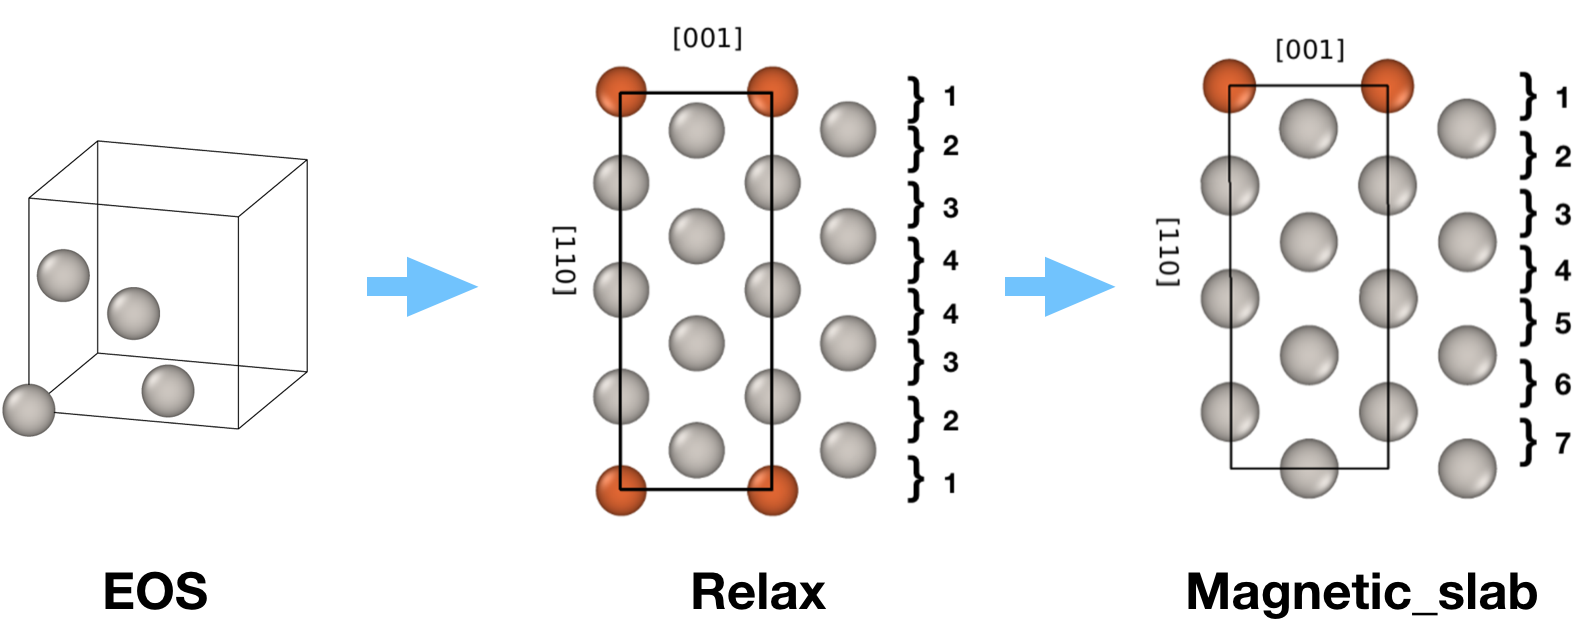
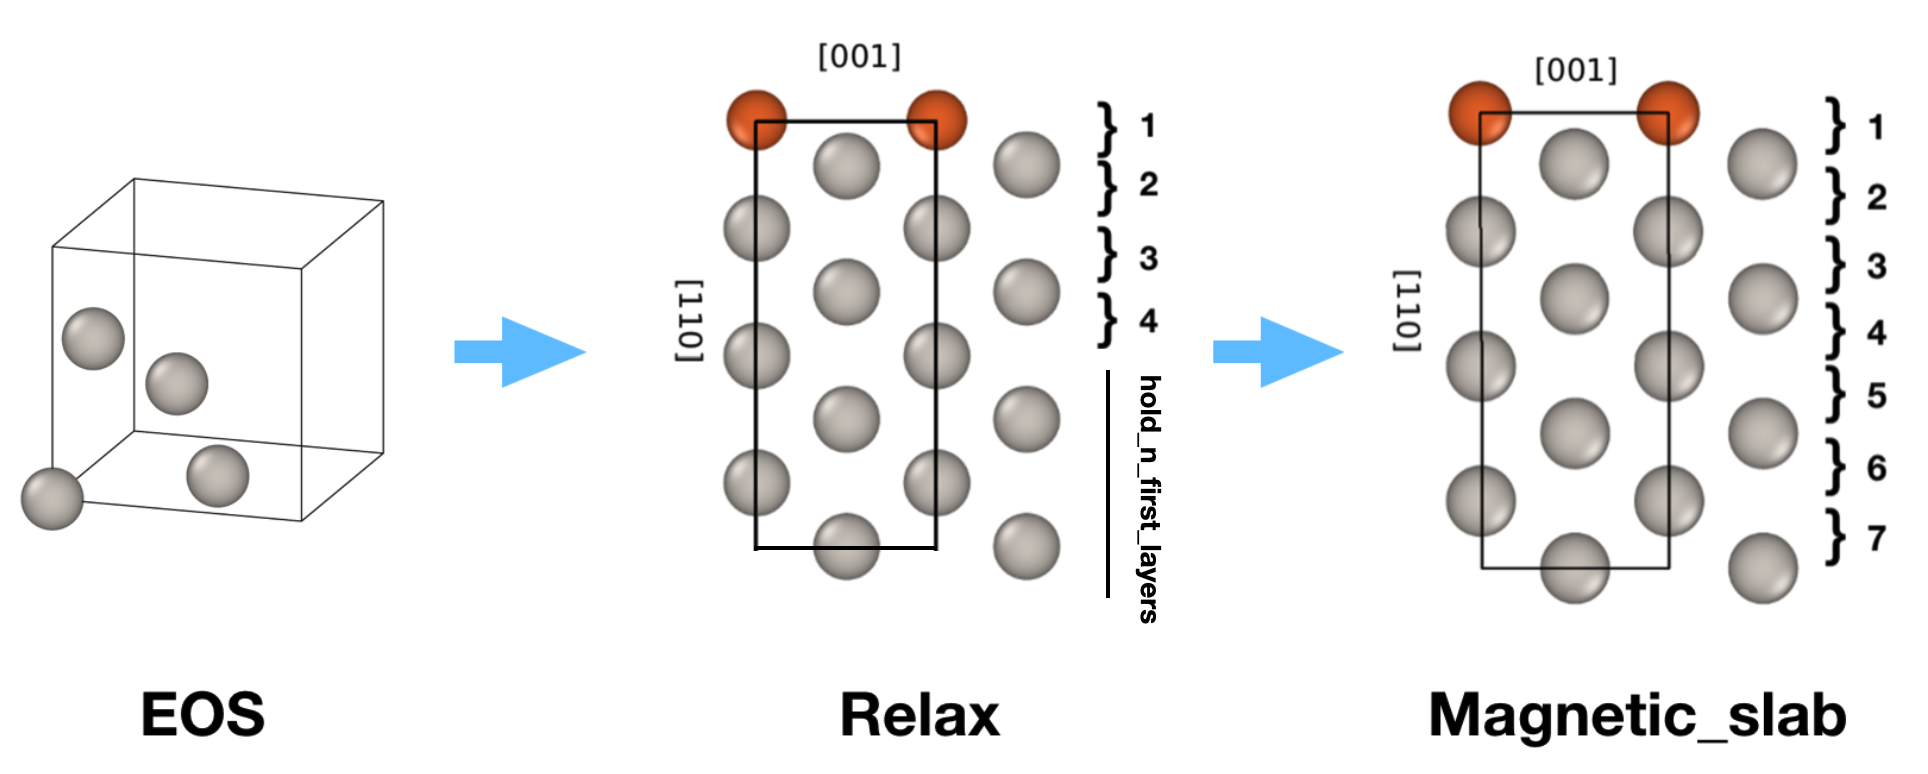
Update doc for CreateMagnetic

diff --git a/docs/source/user_guide/workflows/code/create_magnetic_parameters.py b/docs/source/user_guide/workflows/code/create_magnetic_parameters.py
@@ -6,10 +6,14 @@
 'host_symbol': 'Pt',               # chemical element of the substrate
 'latticeconstant': 4.0,            # initial guess for the substrate lattice constant
 'size': (1, 1, 5),                 # sets the size of the film unit cell for relax step
-'replacements': {0: 'Fe',          # sets the layer number to be replaced by another element
-                 -1: 'Fe'},
+'replacements': {-2: 'Fe',         # sets the layer number to be replaced by another element
+                 -1: 'Fe'},        # NOTE: negative number means that replacement will take place
+                                   #       on layers on the other side from the held layers
+
 'decimals': 10,                    # set the accuracy of writing atom positions
 'pop_last_layers': 1,              # number of bottom layers to be removed before relaxation
+'hold_n_first_layers': 5,          # number of bottom layers to be held during the relaxation
+                                   # (relaxXYZ = 'FFF')
 
 'total_number_layers': 4,          # use this total number of layers
 'num_relaxed_layers': 2,           # use this number of relaxed interlayer distances

diff --git a/docs/source/user_guide/workflows/create_magnetic_wc.rst b/docs/source/user_guide/workflows/create_magnetic_wc.rst
@@ -96,7 +96,7 @@ since corresponding input structures are created within the CreateMagnetic workc
 | optimized_structure | :py:class:`~aiida.orm.StructureData`| relaxed film structure                                                               | no       |
 +---------------------+-------------------------------------+--------------------------------------------------------------------------------------+----------+
 | distance_suggestion | :py:class:`~aiida.orm.StructureData`| interatomic distance suggestion, output of                                           | no       |
-|                     |                                     | py:method:`~aiida_fleur.tools.StructureData_util.request_average_bond_length_store()`|          |
+|                     |                                     | py:func:`~aiida_fleur.tools.StructureData_util.request_average_bond_length_store()`  |          |
 +---------------------+-------------------------------------+--------------------------------------------------------------------------------------+----------+
 
 Similarly to other workchains,
